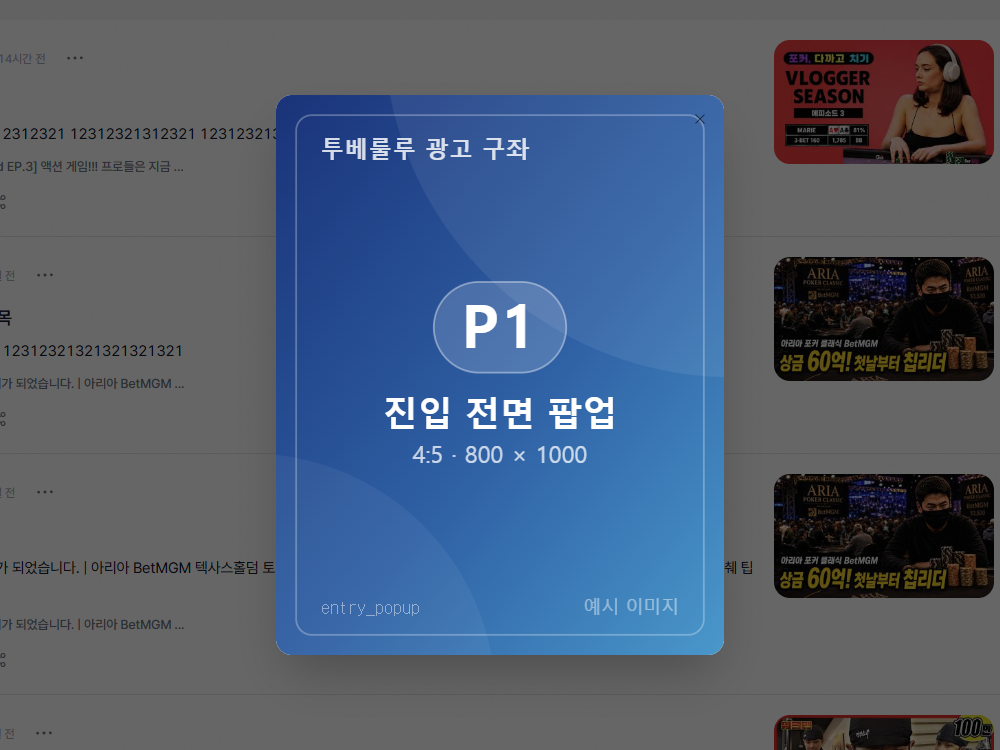
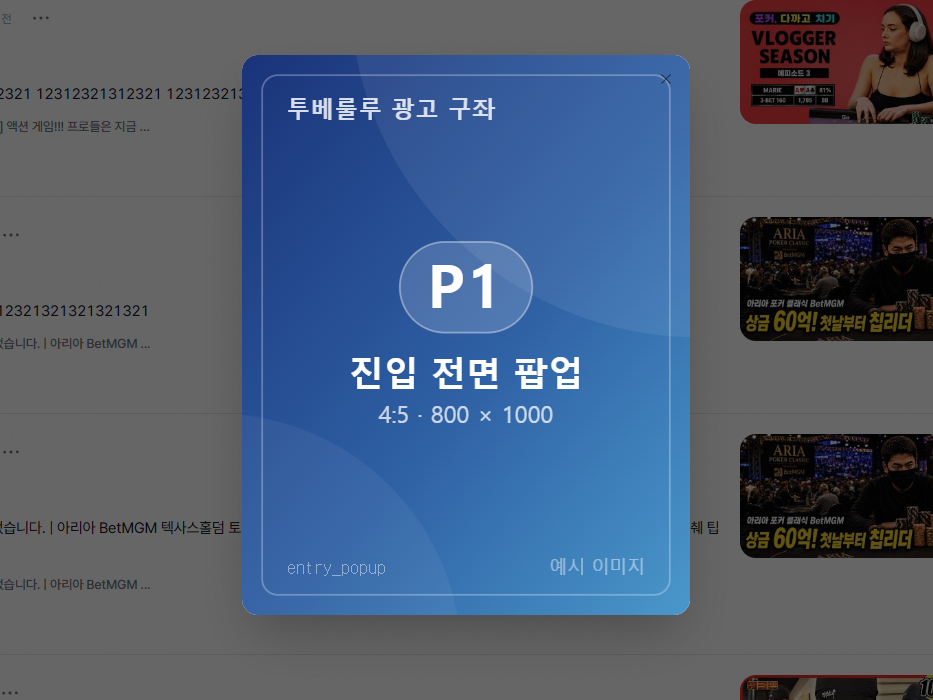
게재지면 캡처 프레임 적용 (폰 베젤 · 브라우저), 광고 자리 중심으로 재크롭, 알림센터 앱 1장만 유지
Claude-Session: https://claude.ai/code/session_0133toKDqgPSMfCoEuLWeeQS

diff --git a/ads.html b/ads.html
@@ -200,10 +200,21 @@ body { font-family: "Pretendard Variable", Pretendard, -apple-system, BlinkMacSy
 
 /* ---------- Placements row ---------- */
 .place-row { display: flex; justify-content: center; gap: 14px; }
-.cap { position: relative; border-radius: 12px; overflow: hidden; border: 1px solid var(--border); box-shadow: 0 10px 26px rgba(9,52,122,0.14); flex: none; background: #fff; }
-.cap img { display: block; width: 100%; height: 100%; object-fit: cover; object-position: center top; }
-.cap.phone { border-radius: 22px; }
 .place-item { flex: none; }
+.phone-frame { position: relative; width: 200px; height: 376px; border-radius: 30px; background: #111827; padding: 8px; box-shadow: 0 14px 30px rgba(9,52,122,0.22), inset 0 0 0 1.5px #3b4252; flex: none; }
+.phone-frame .screen { position: relative; width: 100%; height: 100%; border-radius: 22px; overflow: hidden; background: #fff; }
+.phone-frame .sb { position: absolute; left: 0; right: 0; top: 0; height: 22px; background: #fff; display: flex; justify-content: space-between; align-items: center; padding: 0 16px 0 18px; font-size: 9px; font-weight: 700; color: #111; z-index: 3; font-family: "Poppins", sans-serif; }
+.phone-frame .sb i { font-size: 8px; }
+.phone-frame .notch { position: absolute; left: 50%; top: 6px; transform: translateX(-50%); width: 56px; height: 13px; background: #111827; border-radius: 8px; z-index: 4; }
+.phone-frame img { position: absolute; left: 0; top: 22px; width: 100%; height: calc(100% - 22px); object-fit: cover; object-position: center top; }
+.phone-frame img.full { top: 0; height: 100%; }
+.phone-frame .ad-highlight { z-index: 5; }
+.browser { border-radius: 10px; overflow: hidden; border: 1px solid var(--border); box-shadow: 0 10px 26px rgba(9,52,122,0.14); background: #fff; flex: none; }
+.browser .bar { height: 20px; background: #EEF2F7; display: flex; align-items: center; gap: 5px; padding: 0 10px; border-bottom: 1px solid #E3E8EF; }
+.browser .bar i { width: 7px; height: 7px; border-radius: 50%; background: #D5DBE5; }
+.browser .bar b { flex: 1; height: 9px; margin-left: 8px; border-radius: 5px; background: #fff; border: 1px solid #E3E8EF; }
+.browser .body { position: relative; width: 100%; }
+.browser .body img { display: block; width: 100%; height: 100%; object-fit: cover; object-position: center top; }
 .place-item { flex: 1; display: flex; flex-direction: column; align-items: center; gap: 10px; }
 .place-item .img-slot.phone-sm { width: 148px; height: 300px; }
 .place-item .img-slot.web { width: 148px; height: 300px; border-radius: 12px; }
@@ -479,9 +490,9 @@ body { font-family: "Pretendard Variable", Pretendard, -apple-system, BlinkMacSy
   </div>
   <div class="slide-body">
     <div class="prod-wrap">
-      <div class="shots a-up d2">
-        <div class="shot"><div class="cap phone" style="width:224px;height:336px"><img src="images/slot-a1.png" alt="앱 홈 피드"><div class="ad-highlight" style="left:5px;right:5px;top:140px;height:70px"></div></div><span class="slot-label sky">홈 피드 (앱)<small>A1 · 카드형 배너</small></span></div>
-        <div class="shot"><div class="cap " style="width:448px;height:336px"><img src="images/slot-w3.png" alt="웹 홈 피드"><div class="ad-highlight" style="left:31px;right:11px;top:38px;height:135px"></div></div><span class="slot-label">홈 피드 (웹)<small>W3 · 카드형 배너</small></span></div>
+      <div class="shots a-up d2" style="align-items:flex-end">
+        <div class="shot"><div class="phone-frame"><div class="screen"><div class="sb"><span>20:14</span><span><i class="fa-solid fa-signal"></i> <i class="fa-solid fa-wifi"></i> <i class="fa-solid fa-battery-three-quarters"></i></span></div><div class="notch"></div><img src="images/slot-a1.png" alt="앱 홈 피드"><div class="ad-highlight" style="left:4px;right:4px;top:163px;height:70px"></div></div></div><span class="slot-label sky">홈 피드 (앱)<small>A1 · 카드형 배너</small></span></div>
+        <div class="shot"><div class="browser" style="width:448px"><div class="bar"><i></i><i></i><i></i><b></b></div><div class="body" style="height:336px"><img src="images/slot-w3.png" alt="웹 홈 피드"><div class="ad-highlight" style="left:10px;right:12px;top:17px;height:141px"></div></div></div><span class="slot-label">홈 피드 (웹)<small>W3 · 카드형 배너</small></span></div>
       </div>
       <div class="a-right d3">
         <table class="spec">
@@ -619,11 +630,11 @@ body { font-family: "Pretendard Variable", Pretendard, -apple-system, BlinkMacSy
   <div class="sec-label"><b>03</b>주요 게재지면 — 웹</div>
   <div class="page-head center"><div class="page-title a-up d1">주요 게재지면 <span class="hl">웹</span></div></div>
   <div class="slide-body">
-    <div class="place-row a-up d2">
-      <div class="place-item"><span class="slot-label">W1 홈 좌측 세로형<small>홈 · 좌측 하단 고정 · 1:2</small></span><div class="cap " style="width:270px;height:203px"><img src="images/slot-w1.png" alt="W1"><div class="ad-highlight" style="left:8px;width:46px;top:73px;height:92px"></div></div></div>
-      <div class="place-item"><span class="slot-label">W2 우측 상단 롤링<small>홈 · 롤링 3 · 6:5</small></span><div class="cap " style="width:270px;height:203px"><img src="images/slot-w2.png" alt="W2"><div class="ad-highlight" style="left:176px;right:2px;top:32px;height:78px"></div></div></div>
-      <div class="place-item"><span class="slot-label sky">W3 홈 인사이트 중간<small>홈 피드 사이 · 3:1</small></span><div class="cap " style="width:270px;height:203px"><img src="images/slot-w3.png" alt="W3"><div class="ad-highlight" style="left:19px;right:7px;top:23px;height:81px"></div></div></div>
-      <div class="place-item"><span class="slot-label">W4 인사이트 내 하단<small>영상 바로 아래 · 1.91:1</small></span><div class="cap " style="width:270px;height:203px"><img src="images/slot-w4.png" alt="W4"><div class="ad-highlight" style="left:47px;width:177px;top:96px;height:93px"></div></div></div>
+    <div class="place-row a-up d2" style="align-items:flex-end">
+      <div class="place-item"><span class="slot-label">W1 홈 좌측 세로형<small>홈 · 좌측 하단 고정 · 1:2</small></span><div class="browser" style="width:270px"><div class="bar"><i></i><i></i><i></i><b></b></div><div class="body" style="height:203px"><img src="images/slot-w1.png" alt="W1"><div class="ad-highlight" style="left:11px;width:66px;top:33px;height:131px"></div></div></div></div>
+      <div class="place-item"><span class="slot-label">W2 우측 상단 롤링<small>홈 · 롤링 3 · 6:5</small></span><div class="browser" style="width:270px"><div class="bar"><i></i><i></i><i></i><b></b></div><div class="body" style="height:203px"><img src="images/slot-w2.png" alt="W2"><div class="ad-highlight" style="left:98px;right:2px;top:44px;height:143px"></div></div></div></div>
+      <div class="place-item"><span class="slot-label sky">W3 홈 인사이트 중간<small>홈 피드 사이 · 3:1</small></span><div class="browser" style="width:270px"><div class="bar"><i></i><i></i><i></i><b></b></div><div class="body" style="height:203px"><img src="images/slot-w3.png" alt="W3"><div class="ad-highlight" style="left:6px;right:7px;top:10px;height:85px"></div></div></div></div>
+      <div class="place-item"><span class="slot-label">W4 인사이트 내 하단<small>영상 바로 아래 · 1.91:1</small></span><div class="browser" style="width:270px"><div class="bar"><i></i><i></i><i></i><b></b></div><div class="body" style="height:203px"><img src="images/slot-w4.png" alt="W4"><div class="ad-highlight" style="left:16px;right:15px;top:59px;height:126px"></div></div></div></div>
     </div>
     <div class="foot-note" style="text-align:center;margin-top:16px">주황 박스 = 광고 구좌 위치 · 화면은 실제 서비스 캡처 (광고 자리는 예시 이미지) · 구좌별 단가는 단가표 참조</div>
   </div>
@@ -635,10 +646,10 @@ body { font-family: "Pretendard Variable", Pretendard, -apple-system, BlinkMacSy
   <div class="sec-label"><b>03</b>주요 게재지면 — 앱</div>
   <div class="page-head center"><div class="page-title a-up d1">주요 게재지면 <span class="hl">앱</span></div></div>
   <div class="slide-body">
-    <div class="place-row a-up d2">
-      <div class="place-item"><span class="slot-label sky">A1 홈 인사이트 중간<small>홈 피드 사이 · W3과 같은 소재</small></span><div class="cap phone" style="width:200px;height:300px"><img src="images/slot-a1.png" alt="A1"><div class="ad-highlight" style="left:4px;right:4px;top:125px;height:62px"></div></div></div>
-      <div class="place-item"><span class="slot-label">A2 인사이트 내 하단<small>영상 바로 아래 · W4와 같은 소재</small></span><div class="cap phone" style="width:200px;height:300px"><img src="images/slot-a2.png" alt="A2"><div class="ad-highlight" style="left:4px;right:4px;top:64px;height:99px"></div></div></div>
-      <div class="place-item"><span class="slot-label">A3 구독 탭 배너<small>큐레이터 목록 · 새 인사이트 사이</small></span><div class="img-slot phone-sm" style="width:200px;height:300px"><i class="fa-solid fa-mobile-screen"></i><div class="is-title">구독 탭 화면</div><div class="is-note">화면 준비 중</div><div class="ad-highlight" style="left:12px;right:12px;top:150px;height:52px"></div></div></div>
+    <div class="place-row a-up d2" style="align-items:flex-end;gap:40px">
+      <div class="place-item"><span class="slot-label sky">A1 홈 인사이트 중간<small>홈 피드 사이 · W3과 같은 소재</small></span><div class="phone-frame"><div class="screen"><div class="sb"><span>20:14</span><span><i class="fa-solid fa-signal"></i> <i class="fa-solid fa-wifi"></i> <i class="fa-solid fa-battery-three-quarters"></i></span></div><div class="notch"></div><img src="images/slot-a1.png" alt="A1"><div class="ad-highlight" style="left:4px;right:4px;top:163px;height:70px"></div></div></div></div>
+      <div class="place-item"><span class="slot-label">A2 인사이트 내 하단<small>영상 바로 아래 · W4와 같은 소재</small></span><div class="phone-frame"><div class="screen"><div class="sb"><span>20:14</span><span><i class="fa-solid fa-signal"></i> <i class="fa-solid fa-wifi"></i> <i class="fa-solid fa-battery-three-quarters"></i></span></div><div class="notch"></div><img src="images/slot-a2.png" alt="A2"><div class="ad-highlight" style="left:4px;right:4px;top:94px;height:111px"></div></div></div></div>
+      <div class="place-item"><span class="slot-label">A3 구독 탭 배너<small>큐레이터 목록 · 새 인사이트 사이</small></span><div class="phone-frame"><div class="screen"><div class="sb"><span>20:14</span><span><i class="fa-solid fa-signal"></i> <i class="fa-solid fa-wifi"></i> <i class="fa-solid fa-battery-three-quarters"></i></span></div><div class="notch"></div><div class="img-slot" style="position:absolute;inset:22px 0 0 0;border:0;border-radius:0"><i class="fa-solid fa-mobile-screen"></i><div class="is-title">구독 탭 화면</div><div class="is-note">화면 준비 중</div></div><div class="ad-highlight" style="left:12px;right:12px;top:190px;height:60px"></div></div></div></div>
     </div>
     <div class="foot-note" style="text-align:center;margin-top:16px">주황 박스 = 광고 구좌 위치 · 화면은 실제 앱 캡처 (광고 자리는 예시 이미지) · 홈 인사이트 중간 · 인사이트 내 하단은 웹과 세트로 판매합니다</div>
   </div>
@@ -650,13 +661,12 @@ body { font-family: "Pretendard Variable", Pretendard, -apple-system, BlinkMacSy
   <div class="sec-label"><b>03</b>주요 게재지면 — 웹 · 앱 공통</div>
   <div class="page-head center"><div class="page-title a-up d1">주요 게재지면 <span class="hl">웹 · 앱 공통 · 메시지</span></div></div>
   <div class="slide-body">
-    <div class="place-row a-up d2" style="align-items:flex-start">
-      <div class="place-item"><span class="slot-label" style="background:var(--orange)">P1 진입 팝업<small>웹 · 앱 진입 시 · 하루 1회 · 4:5</small></span><div class="cap " style="width:300px;height:225px"><img src="images/slot-p1.png" alt="P1"><div class="ad-highlight" style="left:83px;width:135px;top:29px;height:168px"></div></div></div>
-      <div class="place-item"><span class="slot-label">알림센터 광고 알림 (웹)<small>포함 서비스 · 4:1 카드</small></span><div class="cap " style="width:300px;height:225px"><img src="images/slot-nc-web.png" alt="알림센터 웹"><div class="ad-highlight" style="left:94px;width:199px;top:60px;height:50px"></div></div></div>
-      <div class="place-item"><span class="slot-label">알림센터 광고 알림 (앱)<small>포함 서비스 · 4:1 카드</small></span><div class="cap phone" style="width:200px;height:300px"><img src="images/slot-nc-app.png" alt="알림센터 앱"><div class="ad-highlight" style="left:10px;right:9px;top:57px;height:46px"></div></div></div>
-      <div class="place-item"><span class="slot-label" style="background:var(--text-strong)">push 알림 광고<small>수신 동의 이용자 · "(광고)" 표기</small></span><div class="cap phone" style="width:200px;height:300px"><img src="images/push-sample.png" alt="push 알림 예시"><div class="ad-highlight" style="left:6px;right:6px;top:152px;height:58px"></div></div></div>
+    <div class="place-row a-up d2" style="align-items:flex-start;gap:44px">
+      <div class="place-item"><span class="slot-label" style="background:var(--orange)">P1 진입 팝업<small>웹 · 앱 진입 시 · 하루 1회 · 4:5</small></span><div class="browser" style="width:400px"><div class="bar"><i></i><i></i><i></i><b></b></div><div class="body" style="height:300px"><img src="images/slot-p1.png" alt="P1"><div class="ad-highlight" style="left:104px;width:192px;top:24px;height:240px"></div></div></div></div>
+      <div class="place-item"><span class="slot-label">알림센터 광고 알림<small>포함 서비스 · 웹 · 앱 알림센터 카드</small></span><div class="phone-frame"><div class="screen"><div class="sb"><span>20:14</span><span><i class="fa-solid fa-signal"></i> <i class="fa-solid fa-wifi"></i> <i class="fa-solid fa-battery-three-quarters"></i></span></div><div class="notch"></div><img src="images/slot-nc-app.png" alt="알림센터"><div class="ad-highlight" style="left:6px;right:6px;top:87px;height:51px"></div></div></div></div>
+      <div class="place-item"><span class="slot-label" style="background:var(--text-strong)">push 알림 광고<small>수신 동의 이용자 · "(광고)" 표기</small></span><div class="phone-frame"><div class="screen"><div class="notch"></div><img src="images/push-sample.png" alt="push 알림 예시" class="full"><div class="ad-highlight" style="left:7px;right:7px;top:141px;height:51px"></div></div></div></div>
     </div>
-    <div class="foot-note" style="text-align:center;margin-top:16px">주황 박스 = 광고 구좌 위치 · 진입 팝업은 웹 · 앱 어디로 들어와도 같은 소재로 노출 · push 화면은 예시</div>
+    <div class="foot-note" style="text-align:center;margin-top:16px">주황 박스 = 광고 구좌 위치 · 진입 팝업은 웹 · 앱 어디로 들어와도 같은 소재로 노출 · 알림센터 카드는 웹에도 같은 자리에 노출 · push 화면은 예시</div>
   </div>
   <div class="brand-mark"><span class="t">Tube</span><span class="l">LuLu</span></div>
 </section>
